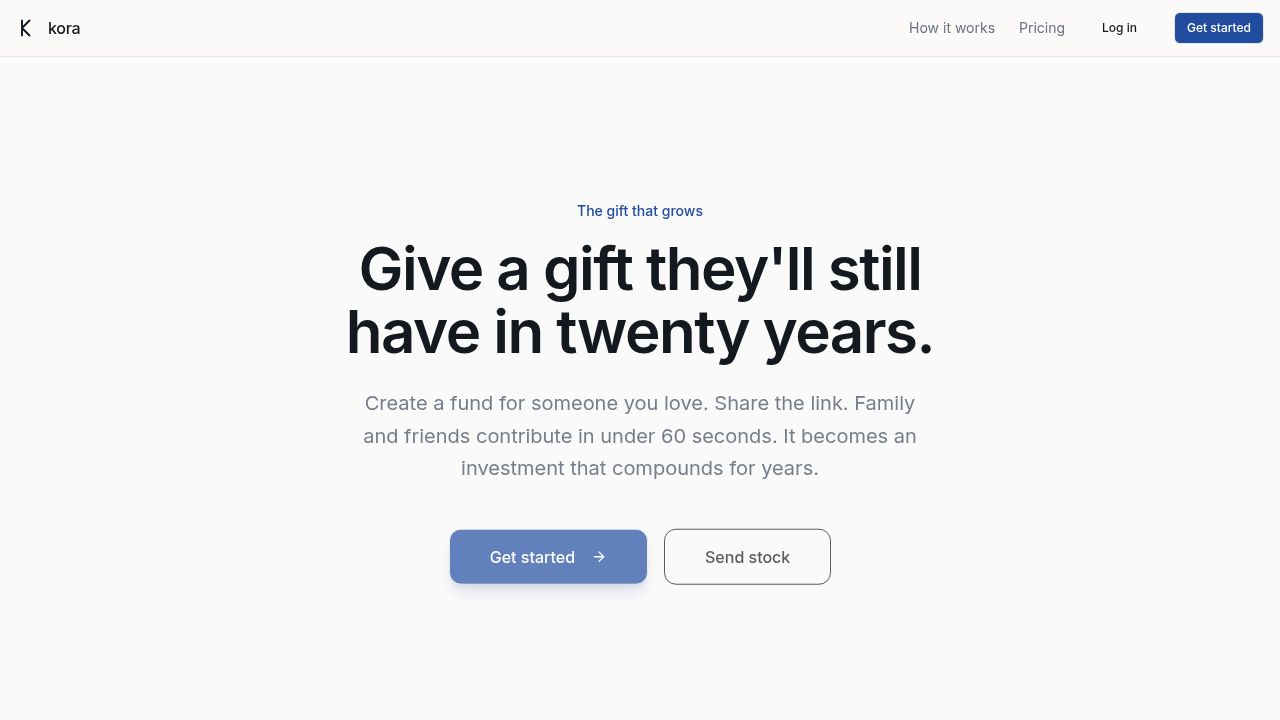
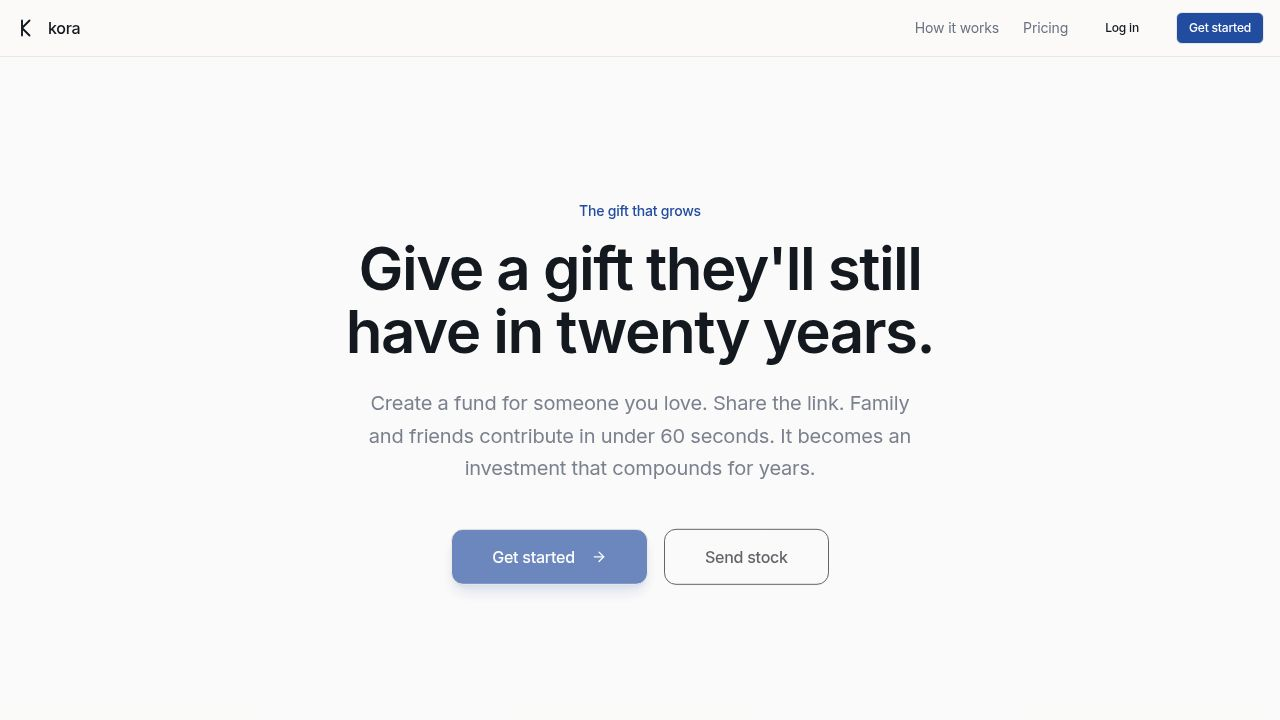
Refine typography and spacing for a more polished and consistent look
Update global CSS to apply tighter letter-spacing to body text, headings, buttons, labels, paragraphs, links, inputs, and specific font weights.

Replit-Commit-Author: Agent
Replit-Commit-Session-Id: 7c58576f-853f-485d-8987-f4b876da3d6f
Replit-Commit-Checkpoint-Type: full_checkpoint
Replit-Commit-Event-Id: c027e6b7-a379-41c0-9cb0-a77d32caa4e4
Replit-Commit-Screenshot-Url: https://storage.googleapis.com/screenshot-production-us-central1/5211ed00-578d-4d19-9654-0361b206e8d3/7c58576f-853f-485d-8987-f4b876da3d6f/ROAoLMf
Replit-Helium-Checkpoint-Created: true

diff --git a/client/src/index.css b/client/src/index.css
@@ -116,16 +116,39 @@
   }
   body {
     @apply font-sans antialiased bg-background text-foreground;
-    font-feature-settings: "cv11", "ss01";
+    font-feature-settings: "cv11", "ss01", "kern" 1;
     -webkit-font-smoothing: antialiased;
     -moz-osx-font-smoothing: grayscale;
+    letter-spacing: -0.01em;
   }
-  h1, h2, h3, h4 {
+  h1, h2, h3, h4, h5, h6 {
     @apply tracking-tight font-semibold;
-    letter-spacing: -0.02em;
+    letter-spacing: -0.025em;
   }
   h1 {
+    letter-spacing: -0.035em;
+  }
+  h2 {
     letter-spacing: -0.03em;
+  }
+  button, [role="button"], .btn {
+    letter-spacing: -0.01em;
+    font-feature-settings: "kern" 1;
+  }
+  label {
+    letter-spacing: -0.005em;
+  }
+  p {
+    letter-spacing: -0.01em;
+  }
+  a {
+    letter-spacing: -0.01em;
+  }
+  input, textarea, select {
+    letter-spacing: -0.01em;
+  }
+  .font-medium, .font-semibold, .font-bold {
+    letter-spacing: -0.015em;
   }
 }
 
